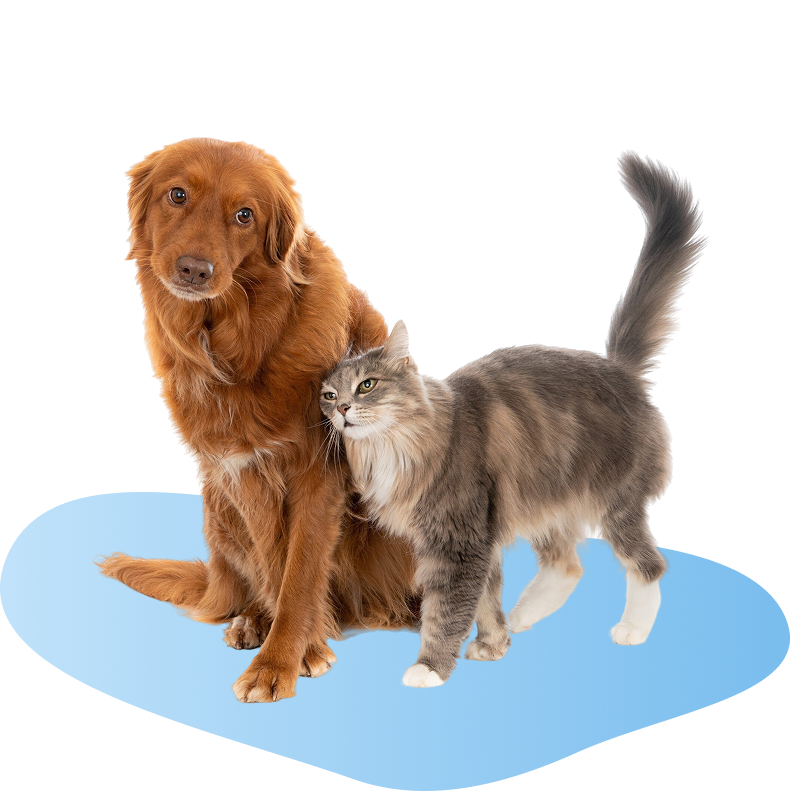
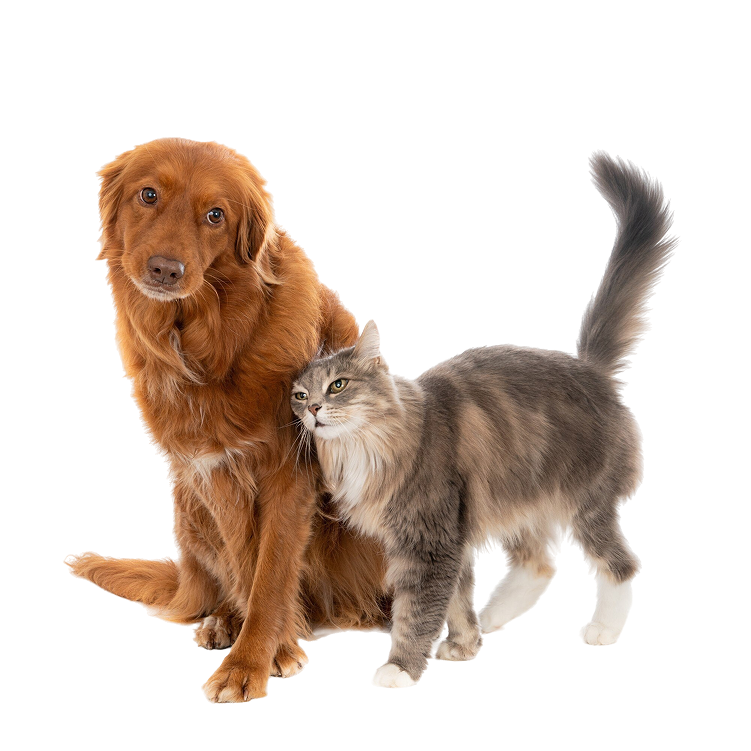
feat: changed hero background

diff --git a/src/pages/home/Hero.tsx b/src/pages/home/Hero.tsx
@@ -7,7 +7,8 @@ import { SchedulingButton } from "../../components/home/Hero/SchedulingButton";
 export function Hero() {
   return (
     <div className="relative">
-      <section className="relative bg-hero-bg pt-24 pb-32 px-6 md:px-24 flex flex-col md:flex-row items-center justify-center overflow-hidden z-10">
+      <section className="relative bg-gradient-to-r from-amber-400 to-amber-100 pt-24 pb-32 px-6 md:px-24 flex flex-col md:flex-row items-center justify-center overflow-hidden z-10">
+        {" "}
         <FadeInUp className="relative z-20 max-w-xl text-center md:text-left md:mr-20 mt-16 md:translate-y-[-40px]">
           <h1 className="text-3xl md:text-5xl font-bold text-white/90 mb-4 md:mb-6">
             {HERO.title}
@@ -17,7 +18,6 @@ export function Hero() {
           </p>
           <SchedulingButton />
         </FadeInUp>
-
         <FadeInUp className="relative mt-8 md:mt-0 md:translate-y-[-40px]">
           <img
             src={HERO.image}

diff --git a/src/components/home/Hero/ServiceCard.tsx b/src/components/home/Hero/ServiceCard.tsx
@@ -6,8 +6,8 @@ type ServiceCardProps = {
 
 export function ServiceCard({ icon, title, description }: ServiceCardProps) {
   return (
-    <div className="flex flex-col items-center text-center px-6 py-4 group hover:bg-yellow-50 rounded-xl transition-all">
-      <div className="bg-[#f9d977] w-16 h-16 rounded-2xl mb-4 flex items-center justify-center overflow-hidden transform group-hover:-translate-y-2 transition-transform duration-300 ease-out">
+    <div className="flex flex-col items-center text-center px-6 py-4 group hover:bg-amber-50 rounded-xl transition-all">
+      <div className="bg-amber-200 w-16 h-16 rounded-2xl mb-4 flex items-center justify-center overflow-hidden transform group-hover:-translate-y-2 transition-transform duration-300 ease-out">
         <img src={icon} alt={title} className="w-10 h-10 object-cover" />
       </div>
       <h3 className="font-semibold text-lg mb-1">{title}</h3>

diff --git a/src/index.css b/src/index.css
@@ -125,17 +125,6 @@ button:focus-visible {
   }
 }
 
-.bg-hero-bg {
-  background-image: url("/assets/hero/background.png");
-  background-size: cover;
-  background-position: center;
-  background-repeat: no-repeat;
-  position: relative;
-  left: 50%;
-  transform: translateX(-50%);
-  width: 100vw;
-}
-
 @layer base {
   * {
     @apply border-border outline-ring/50;
